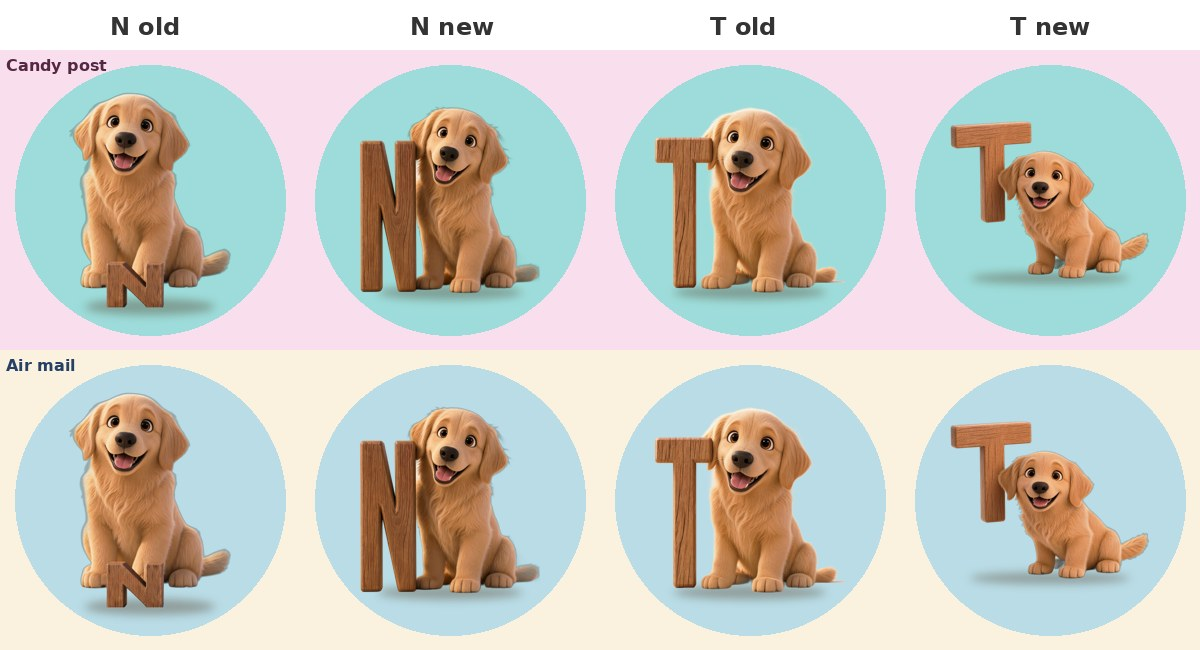
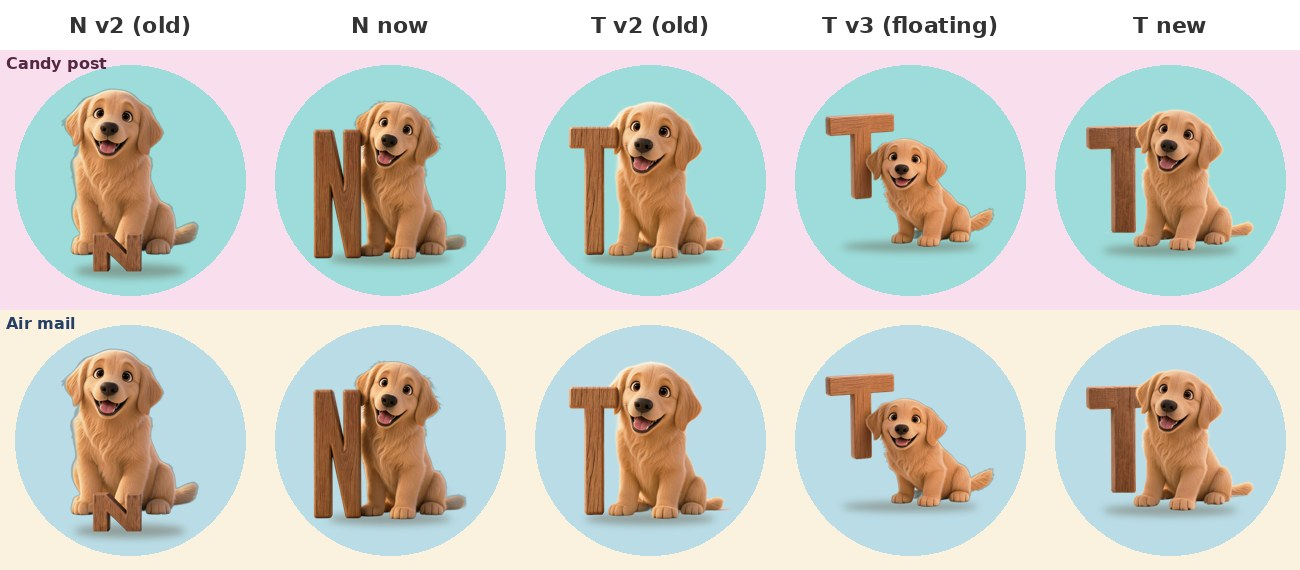
letter post: grounded chunky T (redo4); N unchanged

diff --git a/letter-post/MANIFEST.md b/letter-post/MANIFEST.md
@@ -19,13 +19,13 @@ Credits: 37 generations x 212.1 = 7,847.7.
 | K | cutout/lucy-letter-k.webp | raw/K-final.png | pass: K-try3 (try1 hidden/mangled, try2 mangled) |
 | L | cutout/lucy-letter-l.webp | raw/L-final.png | pass: L-try1 |
 | M | cutout/lucy-letter-m.webp | raw/M-final.png | pass: test1 M-2 (reused) |
-| N | cutout/lucy-letter-n.webp | raw/N-final.png | pass: redo3-try3, big chunky N standing on the floor beside her (try1 no letter + room background, try2 N half behind her). v2 kept: raw/N-final-v2.png, cutout/old-v2/ |
+| N | cutout/lucy-letter-n.webp | raw/N-final.png | pass: redo3-try3, big chunky N standing on the floor beside her (try1 no letter + room background, try2 N half behind her). v2 kept: raw/N-final-v2.png, cutout/old-v2/. Redo 4 (wider N) failed all 3 tries, so this one stays; still narrow |
 | O | cutout/lucy-letter-o.webp | raw/O-final.png | pass: O-try1; Lucy sits inside the O so she looks a bit smaller in the circle |
 | P | cutout/lucy-letter-p.webp | raw/P-final.png | pass: P-try1 |
 | Q | cutout/lucy-letter-q.webp | raw/Q-final.png | pass: Q-try2 (try1 tiny/garbled) |
 | R | cutout/lucy-letter-r.webp | raw/R-final.png | pass: redo2-alt1, big clean R beside her. Other run pick kept: raw/R-final-redo2pick.png (v1 kept: raw/R-final-v1.png, cutout/old-v1/) |
 | S | cutout/lucy-letter-s.webp | raw/S-final.png | pass: S-try1 |
-| T | cutout/lucy-letter-t.webp | raw/T-final.png | weak: redo3-try2, chunky wide-bar T but it floats above the floor, and Lucy shows a bit smaller in the circle because the T sits high (try1 T behind her + cropped, try3 slim tilted floating T). v2 kept: raw/T-final-v2.png, cutout/old-v2/ |
+| T | cutout/lucy-letter-t.webp | raw/T-final.png | ok: redo4-try1, chunky T with its stem standing on the floor beside her (no floating, she does not hold it), Lucy at full size; right half of the top bar is tucked behind her ear. Letter + tail keyed in cutout (KEY="40,150,200,434;400,390,485,440"). v3 floating T kept: raw/T-final-v3.png, cutout/old-v3/; v2: raw/T-final-v2.png, cutout/old-v2/ |
 | U | cutout/lucy-letter-u.webp | raw/U-final.png | pass: U-try1; stray object at left edge removed in cutout |
 | V | cutout/lucy-letter-v.webp | raw/V-final.png | pass: redo2-alt1 (parallel run), clean V on the floor beside her; tail restored in cutout (KEY). Other run pick kept: raw/V-final-redo2pick.png (v1 kept: raw/V-final-v1.png, cutout/old-v1/) |
 | W | cutout/lucy-letter-w.webp | raw/W-final.png | flag: W-try2 CROPPED: lower half only (the full image had a 2nd floating Lucy head; try1 had a room background and 3 Vs). Lucy is lying down here. FLAG: weakest; redo if Bradley wants |
@@ -41,3 +41,9 @@ Credits, both runs: 3,393.6 + 1,484.7 = 4,878.3 (over the 3,500 cap because two 
 
 ## Redo 3 (2026-11-01, about 10:25 to 10:45 am CT): N and T only
 Bradley t773u: "N is really tiny, tiny, tiny, and T is really slim". Lucy unchanged. Prompts p5/ (N.txt/T.txt = try1, -try2, -try3), gens gens-redo4-nt.json, raws raw/<X>-redo3-try1..3.png. 6 generations x 212.1 = 1,272.6 credits. Old vs new: nt-sheet.jpg.
+
+## Redo 4 (2026-11-01, about 10:50 to 11:15 am CT): N wider, T grounded
+Bradley t774u: the T floats; the N is squeezed. Lucy must not hold or lift a letter. Prompts p6/, gens gens-redo5-nt.json, raws raw/<X>-redo4-try1..3.png. 6 generations x 212.1 = 1,272.6 credits.
+N: try1 drew an I, try2 no letter + room background, try3 no letter -> N unchanged (redo3-try3), still narrow.
+T: try1 picked (grounded); try2 no letter; try3 grounded but bar hidden more and tail cropped.
+cut_lp.py KEY now takes several boxes separated by ';'. Old vs new: nt-sheet.jpg.
